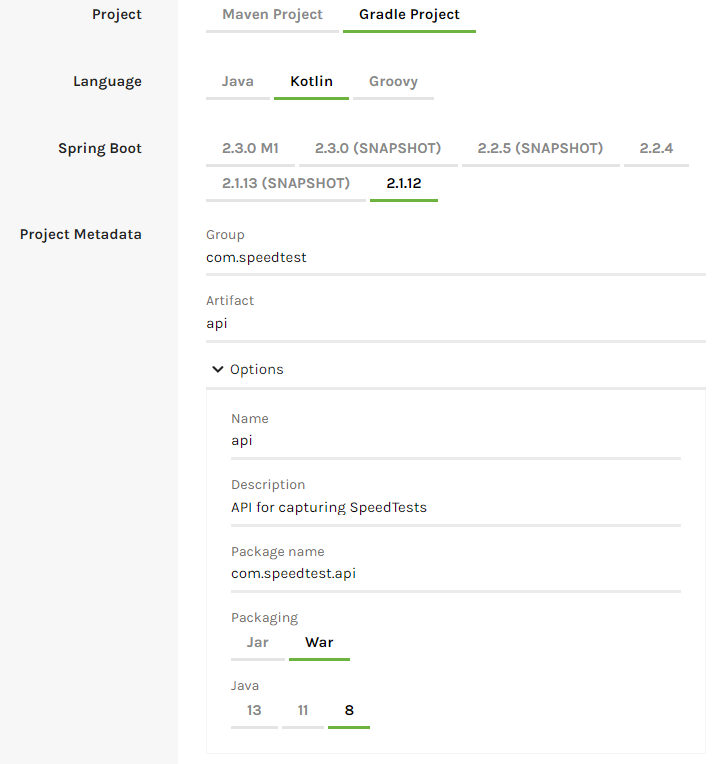
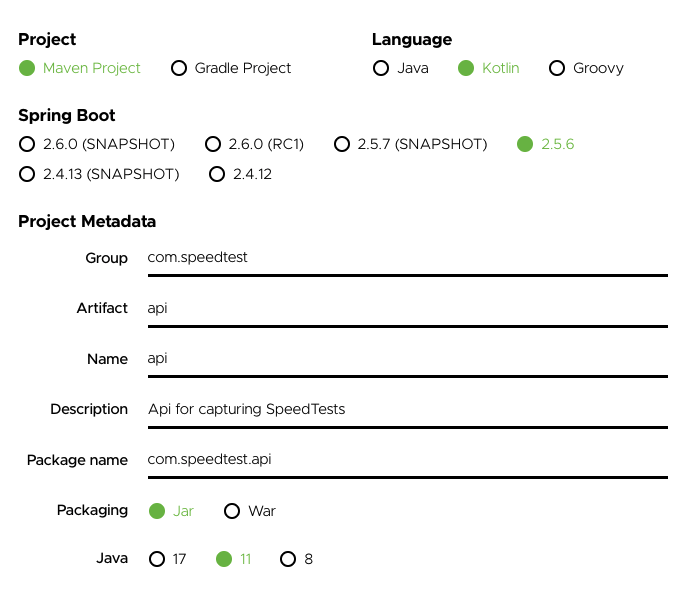
Changed from Gradle to Maven guideline and updated images

diff --git a/gcp/love-the-smell-of-http.md b/gcp/love-the-smell-of-http.md
@@ -4,7 +4,8 @@ _This time we'll start with the API. The GCP Speedtest API application is an HTT
 
 Suggested implementation
 ------------------------
-We suggest that you implement the Speedtest API as a GCP Appengine Standard Java app using Spring Boot and Spring Cloud. The [reference application](https://github.com/cx-cloud-101/gcp-speedtest-api) is implemented using Kotlin and Gradle as the build tool, you may chose Java 8 and/or maven if you prefer.
+We suggest that you implement the Speedtest API as a GCP Appengine Standard Java app using Spring Boot and Spring Cloud. 
+The [reference application](https://github.com/cx-cloud-101/gcp-speedtest-api) is implemented using Kotlin and Maven as the build tool, you may choose Java and/or Gradle if you prefer.
 
 ### API
 Implement the following API.
@@ -57,7 +58,7 @@ Getting Started
 ---------------
 Use [Spring Initializr](https://start.spring.io/) to generate your project.
 
-1. Select setup of build tool and language. Our examples use Kotlin and Gradle, but you can choose between Java or Kotlin and Gradle or Maven if you prefer something else. Notice the selections in **bold**, especially **war** packaging.![](images/create-project-1b.png)
+1. Select setup of build tool and language. Our examples use Kotlin and Maven, but you can choose between Java or Kotlin and Gradle or Maven if you prefer something else. Notice the selections in **bold**, especially **jar** packaging.![](images/create-project-1b.png)
 
 1. Add dependencies: `Spring Web` and `GCP Messaging` ![](images/create-project-2b.png)
 
@@ -66,119 +67,36 @@ Use [Spring Initializr](https://start.spring.io/) to generate your project.
 1. Open IntelliJ, click "Open", and select your git repo folder, containing the unzipped files.
     ![](images/open-project.png)
 
-1. Open File -> Settings and search for Gradle. Check that the Gradle JVM version is set to the installed Java 8 JDK (shows up as 1.8 in the settings).![](images/gradle-jvm-project-setting.png)
+1. Modify `dependencies` in `pom.xml` so that Maven can find the appengine plugin.
+   ```xml
+    <dependency>
+	      <groupId>com.google.cloud.tools</groupId>
+	      <artifactId>appengine-maven-plugin</artifactId>
+	      <version>2.4.1</version>
+    </dependency>
+   ```
 
-1. Modify `pluginManagement` in `settings.gradle.kts` so that Gradle can find the appengine plugin.
-    ```kotlin
-    rootProject.name = "api"
-
-    pluginManagement {
-       repositories {
-           gradlePluginPortal()
-           mavenCentral()
-       }
-       resolutionStrategy {
-           eachPlugin {
-               if (requested.id.namespace == "com.google.cloud.tools") {
-                   useModule("com.google.cloud.tools:appengine-gradle-plugin:${requested.version}")
-               }
-           }
-       }
-    }
+1. Modify `pom.xml` to invoke the appengine plugin (Add the last line to the `plugins`-section). Remember to replace PROJECT_ID with your GCP project id.
+    ```xml
+    <plugin>
+				<groupId>com.google.cloud.tools</groupId>
+				<artifactId>appengine-maven-plugin</artifactId>
+				<version>2.4.1</version>
+				<configuration>
+					<projectId>PROJECT_ID</projectId>
+					<version>GCLOUD_CONFIG</version>
+				</configuration>
+			</plugin>
     ```
-
-1. Modify `build.gradle.kts` to invoke the appengine plugin (Add the last line to the `plugins`-section).
-    ```kotlin
-    plugins {
-        // Other plugins omitted
-        id("com.google.cloud.tools.appengine") version "2.0.1"
-    }
-    ```
-
-1. Modify `dependencies` in `build.gradle.kts` to exclude tomcat so that it can be deployed to appengine (which uses jetty).
-    ```kotlin
-    dependencies {
-        implementation("org.springframework.boot:spring-boot-starter-web") {
-           exclude("org.springframework.boot", "spring-boot-starter-tomcat")
-        }
-        // Other dependencies omitted
-    }
-    ```
-```
-
-1. Add the following to the end of `build.gradle.kts` to configure appengine. (Replace <your-project-id> with the ID of your Google Cloud Project).
-
-```
-    appengine {
-        deploy {
-            version = "GCLOUD_CONFIG"
-            projectId = "<your-project-id>"
-        }
-    }
-```
-
 _You can find the project ID for your project by looking at the "Project info" tile shown on [console.cloud.google.com/home](https://console.cloud.google.com/home)._
 
 ![](images/project-info-gcp.png)
 
-1. Create the folders `/src/main/webapp/` and `/src/main/webapp/WEB-INF/`. Then add the following two files to `/src/main/webapp/WEB-INF`/
-
-    1. `appengine-web.xml`
-
-        ```xml
-        <?xml version="1.0" encoding="UTF-8"?>
-        <appengine-web-app xmlns="http://appengine.google.com/ns/1.0">
-            <threadsafe>true</threadsafe>
-            <runtime>java8</runtime>
-            <sessions-enabled>true</sessions-enabled>
-            <warmup-requests-enabled>true</warmup-requests-enabled>
-            <env-variables>
-                <env-var name="DEFAULT_ENCODING" value="UTF-8"/>
-            </env-variables>
-        </appengine-web-app>
-        ```
-
-   1. `web.xml`
-
-        ```xml
-        <?xml version="1.0" encoding="utf-8"?>
-        <web-app xmlns="http://xmlns.jcp.org/xml/ns/javaee"
-                    xmlns:xsi="http://www.w3.org/2001/XMLSchema-instance"
-                    xsi:schemaLocation="http://xmlns.jcp.org/xml/ns/javaee
-                    http://xmlns.jcp.org/xml/ns/javaee/web-app_3_1.xsd"
-                    version="3.1">
-
-            <servlet>
-                <servlet-name>speedtest-api</servlet-name>
-                <servlet-class>org.springframework.web.servlet.DispatcherServlet</servlet-class>
-                <init-param>
-                    <param-name>contextAttribute</param-name>
-                    <param-value>org.springframework.web.context.WebApplicationContext.ROOT</param-value>
-                </init-param>
-                <load-on-startup>1</load-on-startup>
-            </servlet>
-
-            <servlet-mapping>
-                <servlet-name>speedtest-api</servlet-name>
-                <url-pattern>/*</url-pattern>
-            </servlet-mapping>
-
-            <welcome-file-list>
-                <welcome-file>index.html</welcome-file>
-            </welcome-file-list>
-
-            <security-constraint>
-                <web-resource-collection>
-                    <web-resource-name>all</web-resource-name>
-                    <url-pattern>/*</url-pattern>
-                </web-resource-collection>
-                <user-data-constraint>
-                    <transport-guarantee>CONFIDENTIAL</transport-guarantee>
-                </user-data-constraint>
-            </security-constraint>
-
-        </web-app>
-        ```
+1. Create the folder `/src/main/appengine/`. Then add the following file in that folder:
+`app.yaml`
+```yaml
+runtime: java11
+```
 
 Testing the API
 ---------------
@@ -221,12 +139,11 @@ Application Default Credentials.
 ...
 ```
 
-Start the application either by running the `ApiApplication` class in your IDE, or running one of the following gradle commands:
+Start the application either by running the `ApiApplication` class in your IDE, or run the following maven command:
 
-* `./gradlew bootRun`
-* `./gradlew appengineRun`
+* `mvn spring-boot:run`
 
-_All the three ways of starting the application should work, so pick the one that works for you._
+_Both ways of starting the application should work, so pick the one that works for you._
 
 If the API started successfully, you should be able to open [http://localhost:8080/hello/speedtest](http://localhost:8080/hello/speedtest) in your browser and get a response.
 
@@ -238,50 +155,31 @@ If everything went well, you're ready to deploy the API to GCP.
 
 Start by creating an App Engine Application in your GCP Project by running the following command in a terminal, and selecting `europe-west` as the region.
 
-```shell
-$> gcloud app create
-You are creating an app for project [cloud-101-268020].
-WARNING: Creating an App Engine application for a project is irreversible and the region cannot be changed. More information about regions is at <https://cloud.google.com/appengine/docs/locations>.
+![](images/create-app-1.png)
 
-Please choose the region where you want your App Engine application located:
-
- [1] asia-east2    (supports standard and flexible)
- [2] asia-northeast1 (supports standard and flexible)
- [3] asia-northeast2 (supports standard and flexible)
- [4] asia-south1   (supports standard and flexible)
- [5] australia-southeast1 (supports standard and flexible)
- [6] europe-west   (supports standard and flexible)
- [7] europe-west2  (supports standard and flexible)
- [8] europe-west3  (supports standard and flexible)
- [9] europe-west6  (supports standard and flexible)
- [10] northamerica-northeast1 (supports standard and flexible)
- [11] southamerica-east1 (supports standard and flexible)
- [12] us-central    (supports standard and flexible)
- [13] us-east1      (supports standard and flexible)
- [14] us-east4      (supports standard and flexible)
- [15] us-west2      (supports standard and flexible)
- [16] cancel
-Please enter your numeric choice:  6
-
-Creating App Engine application in project [cloud-101-268020] and region [europe-west]....done.
-Success! The app is now created. Please use `gcloud app deploy` to deploy your first app.
-```
-
-Navigate to your gcp-speedtest-api repo folder, and use gradle to deploy your app to appengine.
+Navigate to your gcp-speedtest-api/api repo folder, and use maven to deploy your app to appengine.
 
 ```
-$ gcp-speedtest-api> .\gradlew appengineDeploy
-Welcome to Gradle 5.6.4!
+$ gcp-speedtest-api/api> mvn clean install appengine:deploy
+[INFO] Scanning for projects...
+[INFO] 
+[INFO] -------------------------< com.speedtest:api >--------------------------
+[INFO] Building api 0.0.1-SNAPSHOT
+[INFO] --------------------------------[ jar ]---------------------------------
 
 // A lot more output omitted here
 
-BUILD SUCCESSFUL in 7m 46s
-7 actionable tasks: 5 executed, 2 up-to-date
+[INFO] ------------------------------------------------------------------------
+[INFO] BUILD SUCCESS
+[INFO] ------------------------------------------------------------------------
+[INFO] Total time:  03:42 min
+[INFO] Finished at: 2021-11-09T16:40:20+01:00
+[INFO] ------------------------------------------------------------------------
 ```
 
-_If you get an error saying that `JAVA_HOME` is not set, and that java is missing from `PATH`, you'll need to do both. `JAVA_HOME` should be the folder where you installed the Java SE 8 JDK, e.g. `C:\Program Files\Java\jdk1.8.0_241`. To the `PATH` variable, you'll need to add the `\bin` folder under the `JAVA_HOME` folder. e.g. `C:\Program Files\Java\jdk1.8.0_241\bin`._
+_If you get an error saying that `JAVA_HOME` is not set, and that java is missing from `PATH`, you'll need to do both. `JAVA_HOME` should be the folder where you installed the Java SE 11 JDK. To the `PATH` variable, you'll need to add the `\bin` folder under the `JAVA_HOME` folder._
 
-If everything worked, you should be able to open [https://your-project-id.appspot.com/hello/speedtest](https://your-project-id.appspot.com/hello/speedtest), replacing "your-project-id" with the ID of your GCP project.
+If everything worked, you should be able to open [https://your-project-id.ew.r.appspot.com/hello/speedtest](https://your-project-id.ew.r.appspot.com/hello/speedtest), replacing "your-project-id" with the ID of your GCP project.
 
 ![](images/gcp-hello-speedtest.png)
 
@@ -403,7 +301,7 @@ Now we can test if we're able to publish events to GCP. Start the API locally, a
 
 ![](images/pub-sub-hello.png)
 
-If everything went well, you can publish the updated API to GCP with `.\gradlew appengineDeploy` in the folder`/gcp-speedtest-api`, and test that it works there as well. Check n your changes and/or push them to github if you feel like doing that.
+If everything went well, you can publish the updated API to GCP with `mvn clean install appengine:deploy` in the folder`/gcp-speedtest-api/api`, and test that it works there as well. Check in your changes and/or push them to github if you feel like doing that.
 
 You have an API on GCP. What now?
 ---------------------------------

diff --git a/installation-guide.md b/installation-guide.md
@@ -36,9 +36,9 @@ Google Cloud Platform (GCP) and Kotlin
 --------------------------------------
 _To complete the GCP-part of the workshop, you'll need the following tools and accounts._
 
-### Java SE 8 JDK and IntelliJ IDEA
+### Java SE JDK and IntelliJ IDEA
 
-1. You'll need a version 8 of the Java Developer Kit (JDK). Go to [Oracle Java SE downloads](https://www.oracle.com/technetwork/java/javase/downloads/index.html), find "Java SE 8u241", choose "JDK Download" and pick the download that suits our system. The download unfortunately requires you to create an Oracle account. They only require the email to be valid, so feel free to get creative filling out the form.
+1. You'll need a version 8 or newer of the Java Developer Kit (JDK). You can use [OpenJDK](https://openjdk.java.net).
 1. If you don't have a Java IDE and Spring Boot installed, you should download [IntelliJ IDEA Ultimate](https://www.jetbrains.com/idea/download/). It's not free, but it has a 30 day trial and includes Spring Boot.
 
 ### GCP Free trial
@@ -53,8 +53,8 @@ _If you already have used the GCP free trial, then you'll have to register a new
 1. Install the [Cloud SDK](https://cloud.google.com/sdk/docs/quickstarts/)
 2. During the installation process you'll initialize Cloud SDK with `gcloud init`. Remember to log on with the account that has the free trial activated.
 
-### Node v8 (latest)
+### Node
 _If you have node installed, you can check the version with `node --version`._
-_Note that the GCP Cloud Function node runtime only supports v8.15.0, but you should be able to use a newer version in the v8.x.x series, like v8.17.0._
+_Note that the GCP Cloud Function node runtime only supports version 10, 12, 14 and 16, but you should be able to use a newer version._
 
 1. Install node from [nodejs.org](https://nodejs.org/dist/latest-v8.x/)
